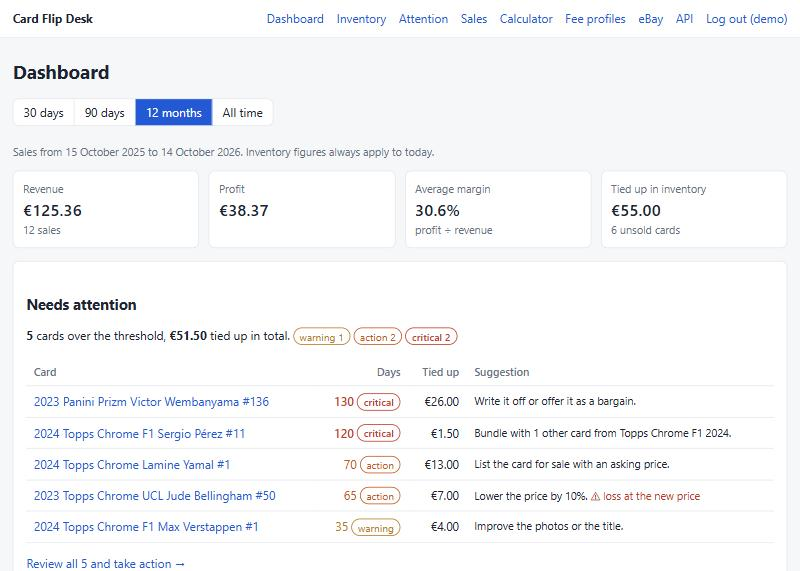
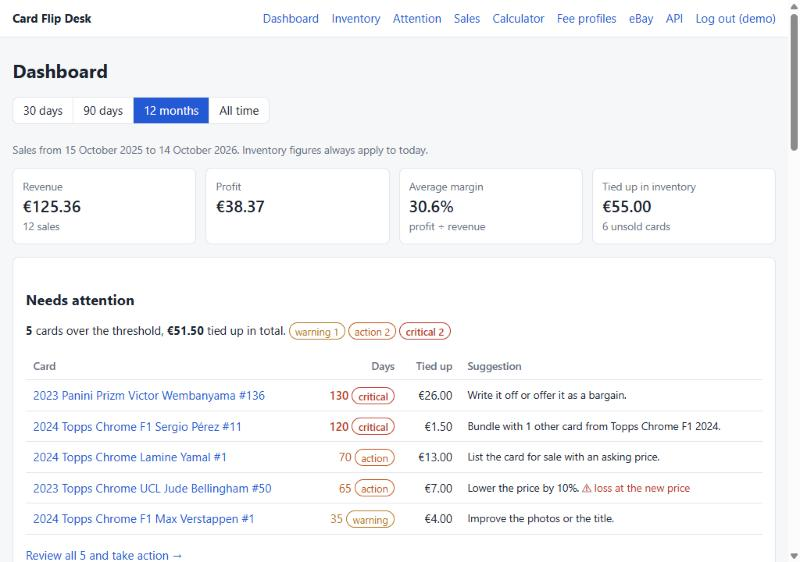
Refresh README screenshots for variants and condition
- New screenshot of the card form with several variants and the parallel
  name and serial number fields
- Inventory, listing generator and the other screenshots retaken with the
  current UI and demo data
- Condition column in the inventory table no longer wraps

diff --git a/templates/inventory/_card_table.html b/templates/inventory/_card_table.html
@@ -7,7 +7,7 @@
       <td class="thumb-cell">{% with photo=card.main_photos|first %}{% if photo %}<img class="thumb-sm" src="{% url 'inventory:photo_thumb' photo.pk %}" alt="" loading="lazy">{% else %}<span class="thumb-sm thumb-empty" aria-hidden="true"></span>{% endif %}{% endwith %}</td>
       <td><a href="{% url 'inventory:card_detail' card.pk %}">{{ card }}</a></td>
       <td>{{ card.variant_display }}</td>
-      <td>{{ card.get_condition_display|default:"–" }}</td>
+      <td class="nowrap">{{ card.get_condition_display|default:"–" }}</td>
       <td><span class="badge badge-{{ card.status }}">{{ card.get_status_display }}</span></td>
       <td class="num">{% include "inventory/_age.html" %}</td>
       <td class="num">{{ card.cost_total|euro }}</td>

diff --git a/README.md b/README.md
@@ -16,10 +16,10 @@ when eBay goes down.
 
 | | |
 |---|---|
-| ![Charts](docs/screenshots/02-dashboard-charts.jpg) **Dashboard:** revenue and profit per month, margin per set, fastest and slowest sellers | ![Inventory](docs/screenshots/03-inventory.jpg) **Inventory:** filters, main photo, age with colour and label |
-| ![Photos](docs/screenshots/04-photos.jpg) **Photos:** front and back, main photo, ordering, checklist | ![Listing generator](docs/screenshots/05-listing-generator.jpg) **Listing generator:** title of at most 80 characters, checks, profit at the asking price |
-| ![Needs attention](docs/screenshots/06-attention.jpg) **Needs attention:** a suggestion per card; a price drop shows the new profit straight away | ![Calculator](docs/screenshots/07-calculator.jpg) **Calculator:** from price to profit and from profit to price |
-| ![API docs](docs/screenshots/08-api-docs.jpg) **REST API:** OpenAPI docs with token authentication | |
+| ![Charts](docs/screenshots/02-dashboard-charts.jpg) **Dashboard:** revenue and profit per month, margin per set, fastest and slowest sellers | ![Inventory](docs/screenshots/03-inventory.jpg) **Inventory:** filters (also by variant), main photo, variants, condition, age with colour and label |
+| ![Card form](docs/screenshots/04-card-form.jpg) **Card form:** several variants per card; the parallel name and serial number appear when Parallel is ticked | ![Photos](docs/screenshots/05-photos.jpg) **Photos:** front and back, main photo, ordering, checklist |
+| ![Listing generator](docs/screenshots/06-listing-generator.jpg) **Listing generator:** title of at most 80 characters with the variants, checks, profit at the asking price | ![Needs attention](docs/screenshots/07-attention.jpg) **Needs attention:** a suggestion per card; a price drop shows the new profit straight away |
+| ![Calculator](docs/screenshots/08-calculator.jpg) **Calculator:** from price to profit and from profit to price | ![API docs](docs/screenshots/09-api-docs.jpg) **REST API:** OpenAPI docs with token authentication |
 
 *The card images are generated placeholders from `seed_demo`.*
 
